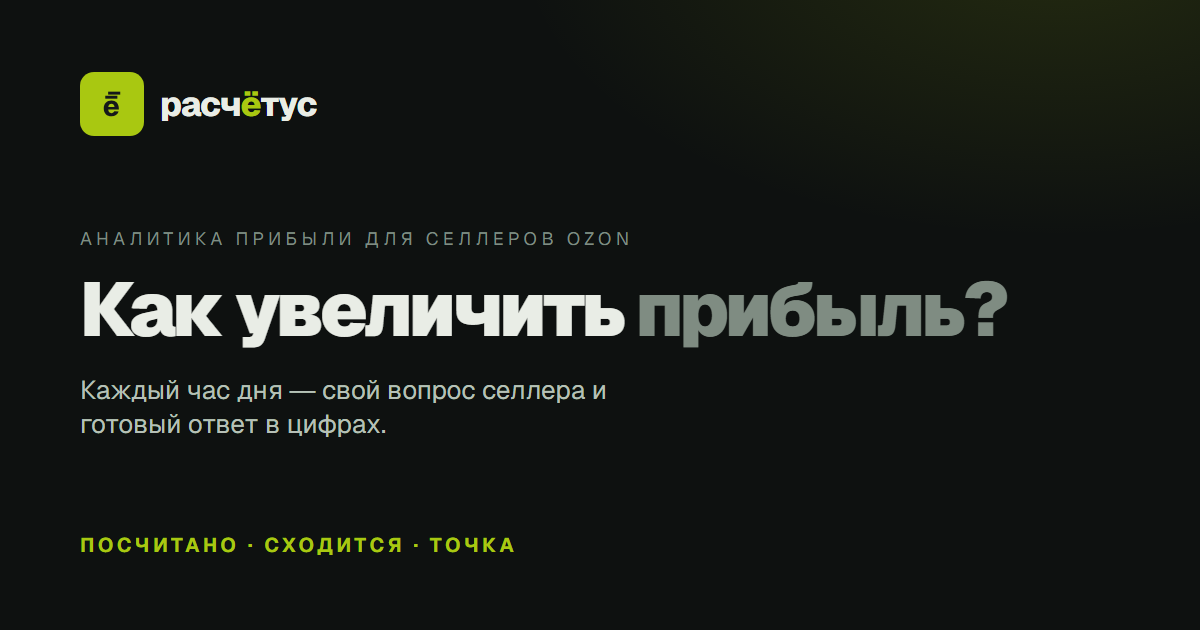
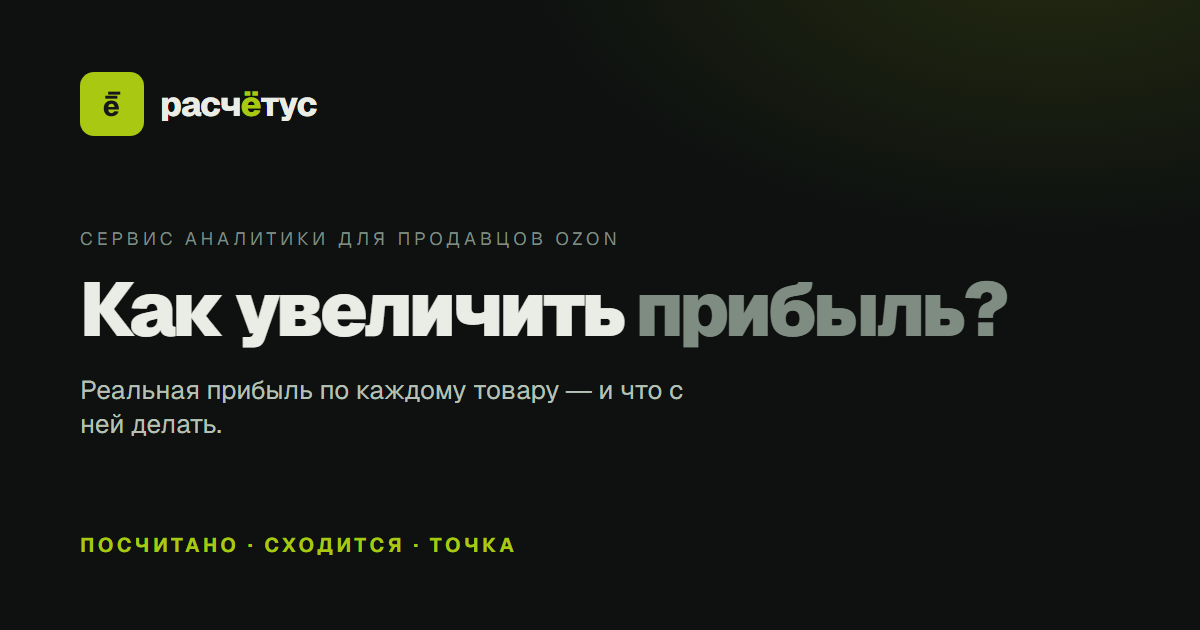
Clarify positioning (сервис аналитики для продавцов Ozon → реальная прибыль), rework SEO title/description/OG/JSON-LD, add static trust strip + offers block (fixed price, 5 free seats, 5-day trial), refresh OG image

Changed region(s): [[0.0617, 0.6032, 0.5858, 0.6333], [0.0617, 0.3619, 0.5242, 0.3921], [0.0617, 0.6635, 0.3392, 0.6937]]

diff --git a/index.html b/index.html
@@ -3,12 +3,12 @@
 <head>
   <meta charset="utf-8">
   <meta name="viewport" content="width=device-width, initial-scale=1">
-  <title>Расчётус — аналитика прибыли для селлеров Ozon</title>
-  <meta name="description" content="Расчётус отвечает цифрами: здоровье магазина, юнит-экономика по SKU, маржинальность в акциях, подсорт по кластерам и карта логистики. Каждый час дня — свой вопрос и готовый ответ.">
+  <title>Расчётус — аналитика Ozon и реальная прибыль магазина</title>
+  <meta name="description" content="Расчётус считает реальную прибыль по каждому товару Ozon: юнит-экономика, себестоимость, реклама, планирование поставок и акции. Все отчёты Ozon в одном сервисе — понятно и каждый день.">
   <meta name="theme-color" content="#0e1110">
   <meta name="color-scheme" content="dark light">
   <meta name="robots" content="index, follow, max-image-preview:large, max-snippet:-1">
-  <meta name="keywords" content="аналитика Ozon, юнит-экономика, прибыль селлера, отчёты Ozon, P&amp;L, себестоимость, планирование поставок, подсорт, акции Ozon, маржинальность, карта логистики, аналитика маркетплейс">
+  <meta name="keywords" content="аналитика Ozon, аналитика для продавцов Ozon, прибыль Ozon, реальная прибыль, юнит-экономика Ozon, себестоимость, финансы Ozon, отчёты Ozon, планирование поставок, подсорт, акции Ozon, маржинальность, P&amp;L, аналитика маркетплейса">
   <meta name="author" content="Расчётус">
   <meta name="yandex-verification" content="8f85b2d57e4718c3">
   <link rel="icon" href="favicon.svg" type="image/svg+xml">
@@ -18,8 +18,8 @@
 
   <meta property="og:type" content="website">
   <meta property="og:site_name" content="Расчётус">
-  <meta property="og:title" content="Расчётус — аналитика прибыли для селлеров Ozon">
-  <meta property="og:description" content="Каждый час дня — свой вопрос селлера и готовый ответ в цифрах. Посчитано. Сходится. Точка.">
+  <meta property="og:title" content="Расчётус — аналитика Ozon и реальная прибыль магазина">
+  <meta property="og:description" content="Считаем реальную прибыль по каждому товару Ozon и подсказываем, что делать. Все отчёты в одном сервисе. Посчитано. Сходится. Точка.">
   <meta property="og:url" content="https://raschetus.ru/">
   <meta property="og:locale" content="ru_RU">
   <meta property="og:image" content="https://raschetus.ru/assets/img/og.png">
@@ -27,12 +27,12 @@
   <meta property="og:image:type" content="image/png">
   <meta property="og:image:width" content="1200">
   <meta property="og:image:height" content="630">
-  <meta property="og:image:alt" content="Расчётус — аналитика прибыли для селлеров Ozon">
+  <meta property="og:image:alt" content="Расчётус — сервис аналитики для продавцов Ozon">
   <meta name="twitter:card" content="summary_large_image">
-  <meta name="twitter:title" content="Расчётус — аналитика прибыли для селлеров Ozon">
-  <meta name="twitter:description" content="Каждый час дня — свой вопрос селлера и готовый ответ в цифрах. Посчитано. Сходится. Точка.">
+  <meta name="twitter:title" content="Расчётус — аналитика Ozon и реальная прибыль магазина">
+  <meta name="twitter:description" content="Считаем реальную прибыль по каждому товару Ozon и подсказываем, что делать. Все отчёты в одном сервисе.">
   <meta name="twitter:image" content="https://raschetus.ru/assets/img/og.png">
-  <meta name="twitter:image:alt" content="Расчётус — аналитика прибыли для селлеров Ozon">
+  <meta name="twitter:image:alt" content="Расчётус — сервис аналитики для продавцов Ozon">
 
   <script>
     (function () {
@@ -62,7 +62,7 @@
         "alternateName": "STPulse",
         "url": "https://raschetus.ru/",
         "logo": "https://raschetus.ru/assets/img/og.png",
-        "description": "Аналитический сервис прибыли и юнит-экономики для селлеров маркетплейса Ozon.",
+        "description": "Сервис аналитики для продавцов маркетплейса Ozon: считает реальную прибыль по каждому товару, юнит-экономику, себестоимость, рекламу, поставки и акции.",
         "areaServed": "RU",
         "founder": { "@type": "Person", "name": "Ким Алина" }
       },
@@ -80,7 +80,7 @@
         "operatingSystem": "Web",
         "applicationCategory": "BusinessApplication",
         "url": "https://app-stpulse.ru/",
-        "description": "Аналитика прибыли для селлеров Ozon: дашборд «Пульс», юнит-экономика по SKU, маржинальность в акциях с автосценариями, подсорт по всем кластерам и FBS, карта логистики, план и прогноз прибыли.",
+        "description": "Сервис аналитики для продавцов Ozon: реальная прибыль по каждому SKU, дашборд «Пульс», юнит-экономика, маржинальность в акциях с автосценариями, подсорт по всем кластерам и FBS, карта логистики, план и прогноз прибыли.",
         "inLanguage": "ru-RU",
         "publisher": { "@id": "https://raschetus.ru/#org" },
         "offers": {
@@ -195,11 +195,29 @@
         <h1 class="hero__title">Как увеличить прибыль?</h1>
         <p class="hero__sub">И другие вопросы селлеров изо дня в день…</p>
         <div class="hero__body">
-          <p class="hero__lead">Расчётус отвечает цифрами. Каждый час дня — свой вопрос и готовый ответ.</p>
+          <p class="hero__lead">Расчётус — сервис аналитики для продавцов Ozon. Показывает реальную прибыль по каждому товару и что с ней делать. Каждый час дня — свой вопрос и готовый ответ.</p>
           <div class="hero__cta">
             <a href="https://app-stpulse.ru/" class="btn btn--lime btn--lg" data-cta="connect">Подключить бесплатно</a>
             <span class="hero__note">5 дней тестового периода, без карты</span>
           </div>
+        </div>
+      </div>
+    </section>
+
+    <!-- ===================== TRUST STRIP ===================== -->
+    <section class="trust" aria-label="Расчётусу доверяют">
+      <div class="trust__inner">
+        <div class="trust__item">
+          <span class="trust__num">200+</span>
+          <span class="trust__cap">магазинов на Ozon считают прибыль в Расчётусе</span>
+        </div>
+        <div class="trust__item">
+          <span class="trust__num">15+</span>
+          <span class="trust__cap">отчётов и дашбордов в одном сервисе</span>
+        </div>
+        <div class="trust__item">
+          <span class="trust__num">каждый&nbsp;день</span>
+          <span class="trust__cap">свежие данные из Ozon и пересчёт прибыли</span>
         </div>
       </div>
     </section>
@@ -483,6 +501,27 @@
       </div>
     </section>
 
+    <!-- ===================== OFFERS ===================== -->
+    <section class="offers" aria-label="Условия">
+      <div class="offers__inner">
+        <p class="offers__eyebrow">почему расчётус</p>
+        <div class="offers__grid">
+          <div class="offer">
+            <div class="offer__title">Цена не зависит от выручки</div>
+            <p class="offer__desc">Фиксированная стоимость при любом обороте — не процент с продаж. Растёте — не переплачиваете.</p>
+          </div>
+          <div class="offer">
+            <div class="offer__title">5 сотрудников бесплатно</div>
+            <p class="offer__desc">В каждом тарифе. Вся команда работает в одном кабинете без доплат за пользователей.</p>
+          </div>
+          <div class="offer">
+            <div class="offer__title">5 дней бесплатно</div>
+            <p class="offer__desc">Полный доступ ко всем отчётам сразу. Без привязки карты.</p>
+          </div>
+        </div>
+      </div>
+    </section>
+
     <!-- ===================== CLOSING (motto) ===================== -->
     <section id="end" class="closing" aria-label="Финал">
       <div class="closing__inner">
@@ -519,7 +558,7 @@
             </g>
           </svg>
         </a>
-        <p class="footer__tag">Аналитика прибыли для селлеров Ozon.</p>
+        <p class="footer__tag">Сервис аналитики для продавцов Ozon.</p>
         <p class="footer__motto">посчитано · сходится · точка</p>
       </div>
 

diff --git a/assets/styles.css b/assets/styles.css
@@ -480,10 +480,59 @@ html.anim .msg--service .panel.show {
 }
 
 /* ============================================================
+   TRUST STRIP
+   ============================================================ */
+.trust { background: var(--gr2); border-bottom: 1px solid var(--hair); }
+.trust__inner {
+  max-width: var(--maxw); margin-inline: auto;
+  display: grid; grid-template-columns: repeat(3, 1fr);
+  gap: clamp(16px, 3vw, 40px);
+  padding: clamp(22px, 3vw, 34px) clamp(16px, 4vw, 52px);
+}
+.trust__item { display: flex; flex-direction: column; gap: 5px; }
+.trust__num {
+  font-weight: 900; font-size: clamp(24px, 3.2vw, 40px);
+  letter-spacing: -0.04em; line-height: 1; color: var(--lime-tx);
+}
+.trust__cap { font-size: 12.5px; color: var(--tx2); max-width: 24ch; }
+
+/* ============================================================
+   OFFERS
+   ============================================================ */
+.offers { border-top: 1px solid var(--hair2); border-bottom: 1px solid var(--hair2); }
+.offers__inner {
+  max-width: var(--maxw); margin-inline: auto;
+  padding: clamp(40px, 5vw, 72px) clamp(16px, 4vw, 52px);
+}
+.offers__eyebrow {
+  font-size: 10.5px; letter-spacing: .24em; text-transform: uppercase;
+  color: var(--mut); margin-bottom: clamp(20px, 2.5vw, 32px);
+}
+.offers__grid {
+  display: grid; grid-template-columns: repeat(3, 1fr);
+  gap: clamp(16px, 2.2vw, 26px);
+}
+.offer {
+  border: 1px solid var(--hair2); border-radius: 12px;
+  background: var(--gr2); padding: 22px 22px 24px;
+  display: flex; flex-direction: column; gap: 8px;
+}
+.offer__title {
+  font-weight: 700; font-size: 17px; letter-spacing: -0.02em; color: var(--lime-tx);
+}
+.offer__desc { font-size: 13.5px; color: var(--tx2); }
+
+/* ============================================================
    RESPONSIVE
    ============================================================ */
 @media (max-width: 760px) {
   .footer__inner { grid-template-columns: 1fr; }
+}
+@media (max-width: 700px) {
+  .offers__grid { grid-template-columns: 1fr; }
+}
+@media (max-width: 620px) {
+  .trust__inner { grid-template-columns: 1fr; gap: 16px; }
 }
 @media (max-width: 560px) {
   .bubble--seller .question { white-space: normal; }
